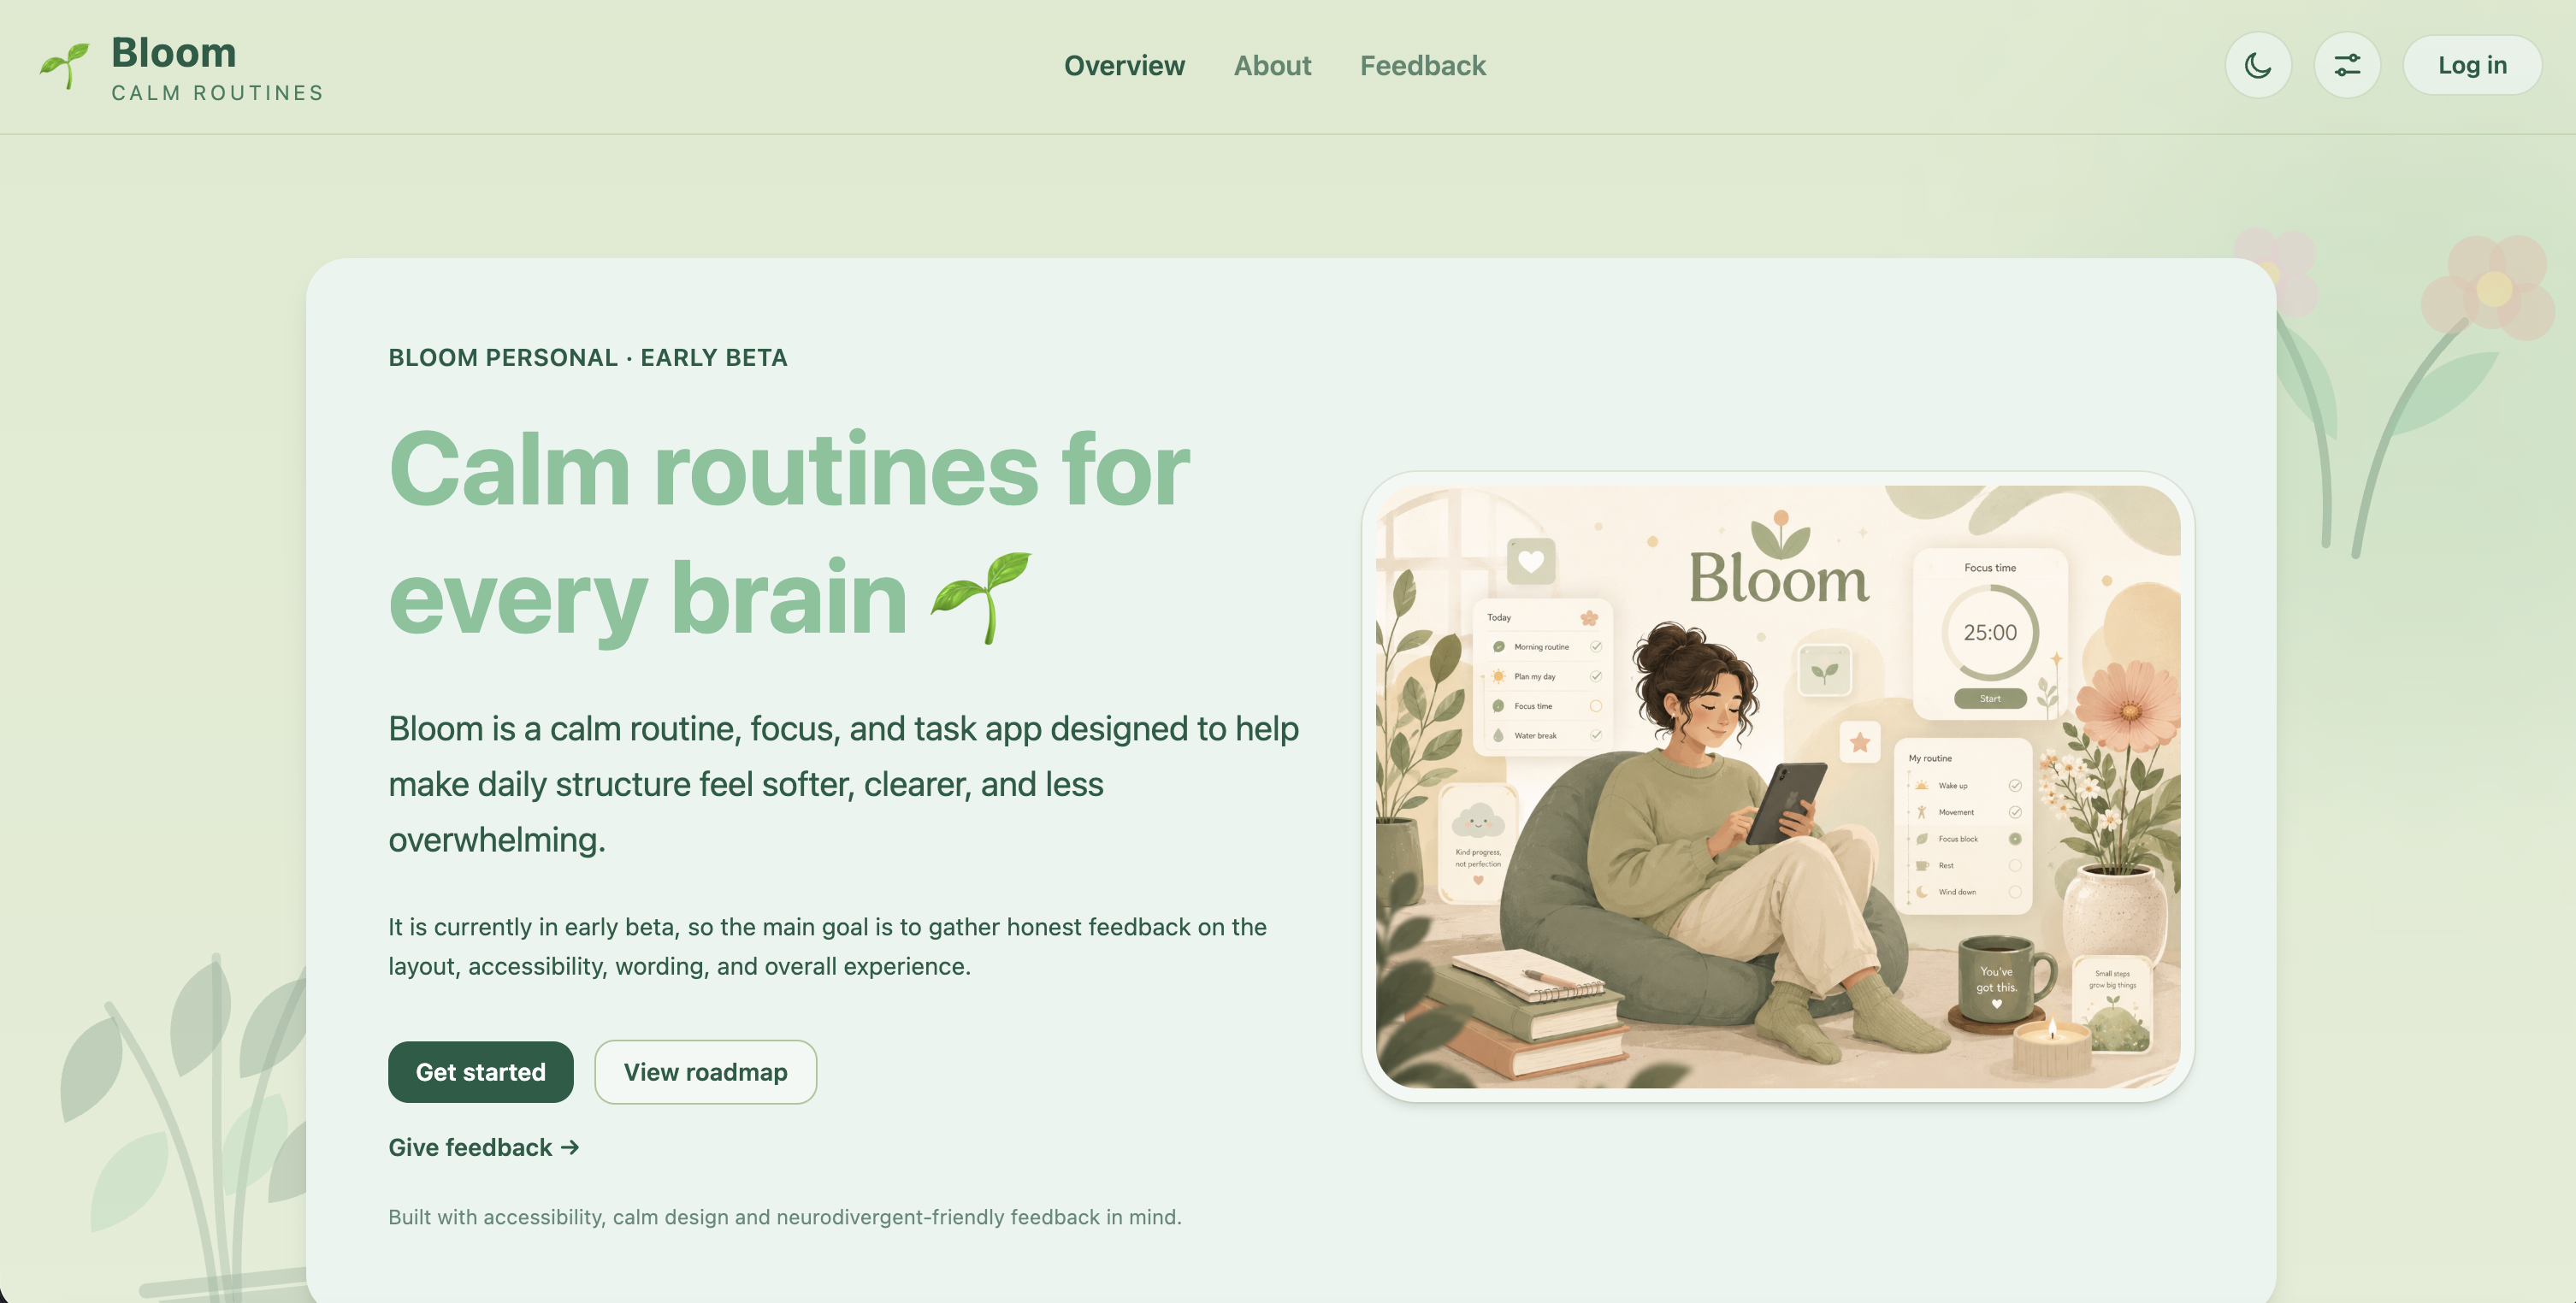
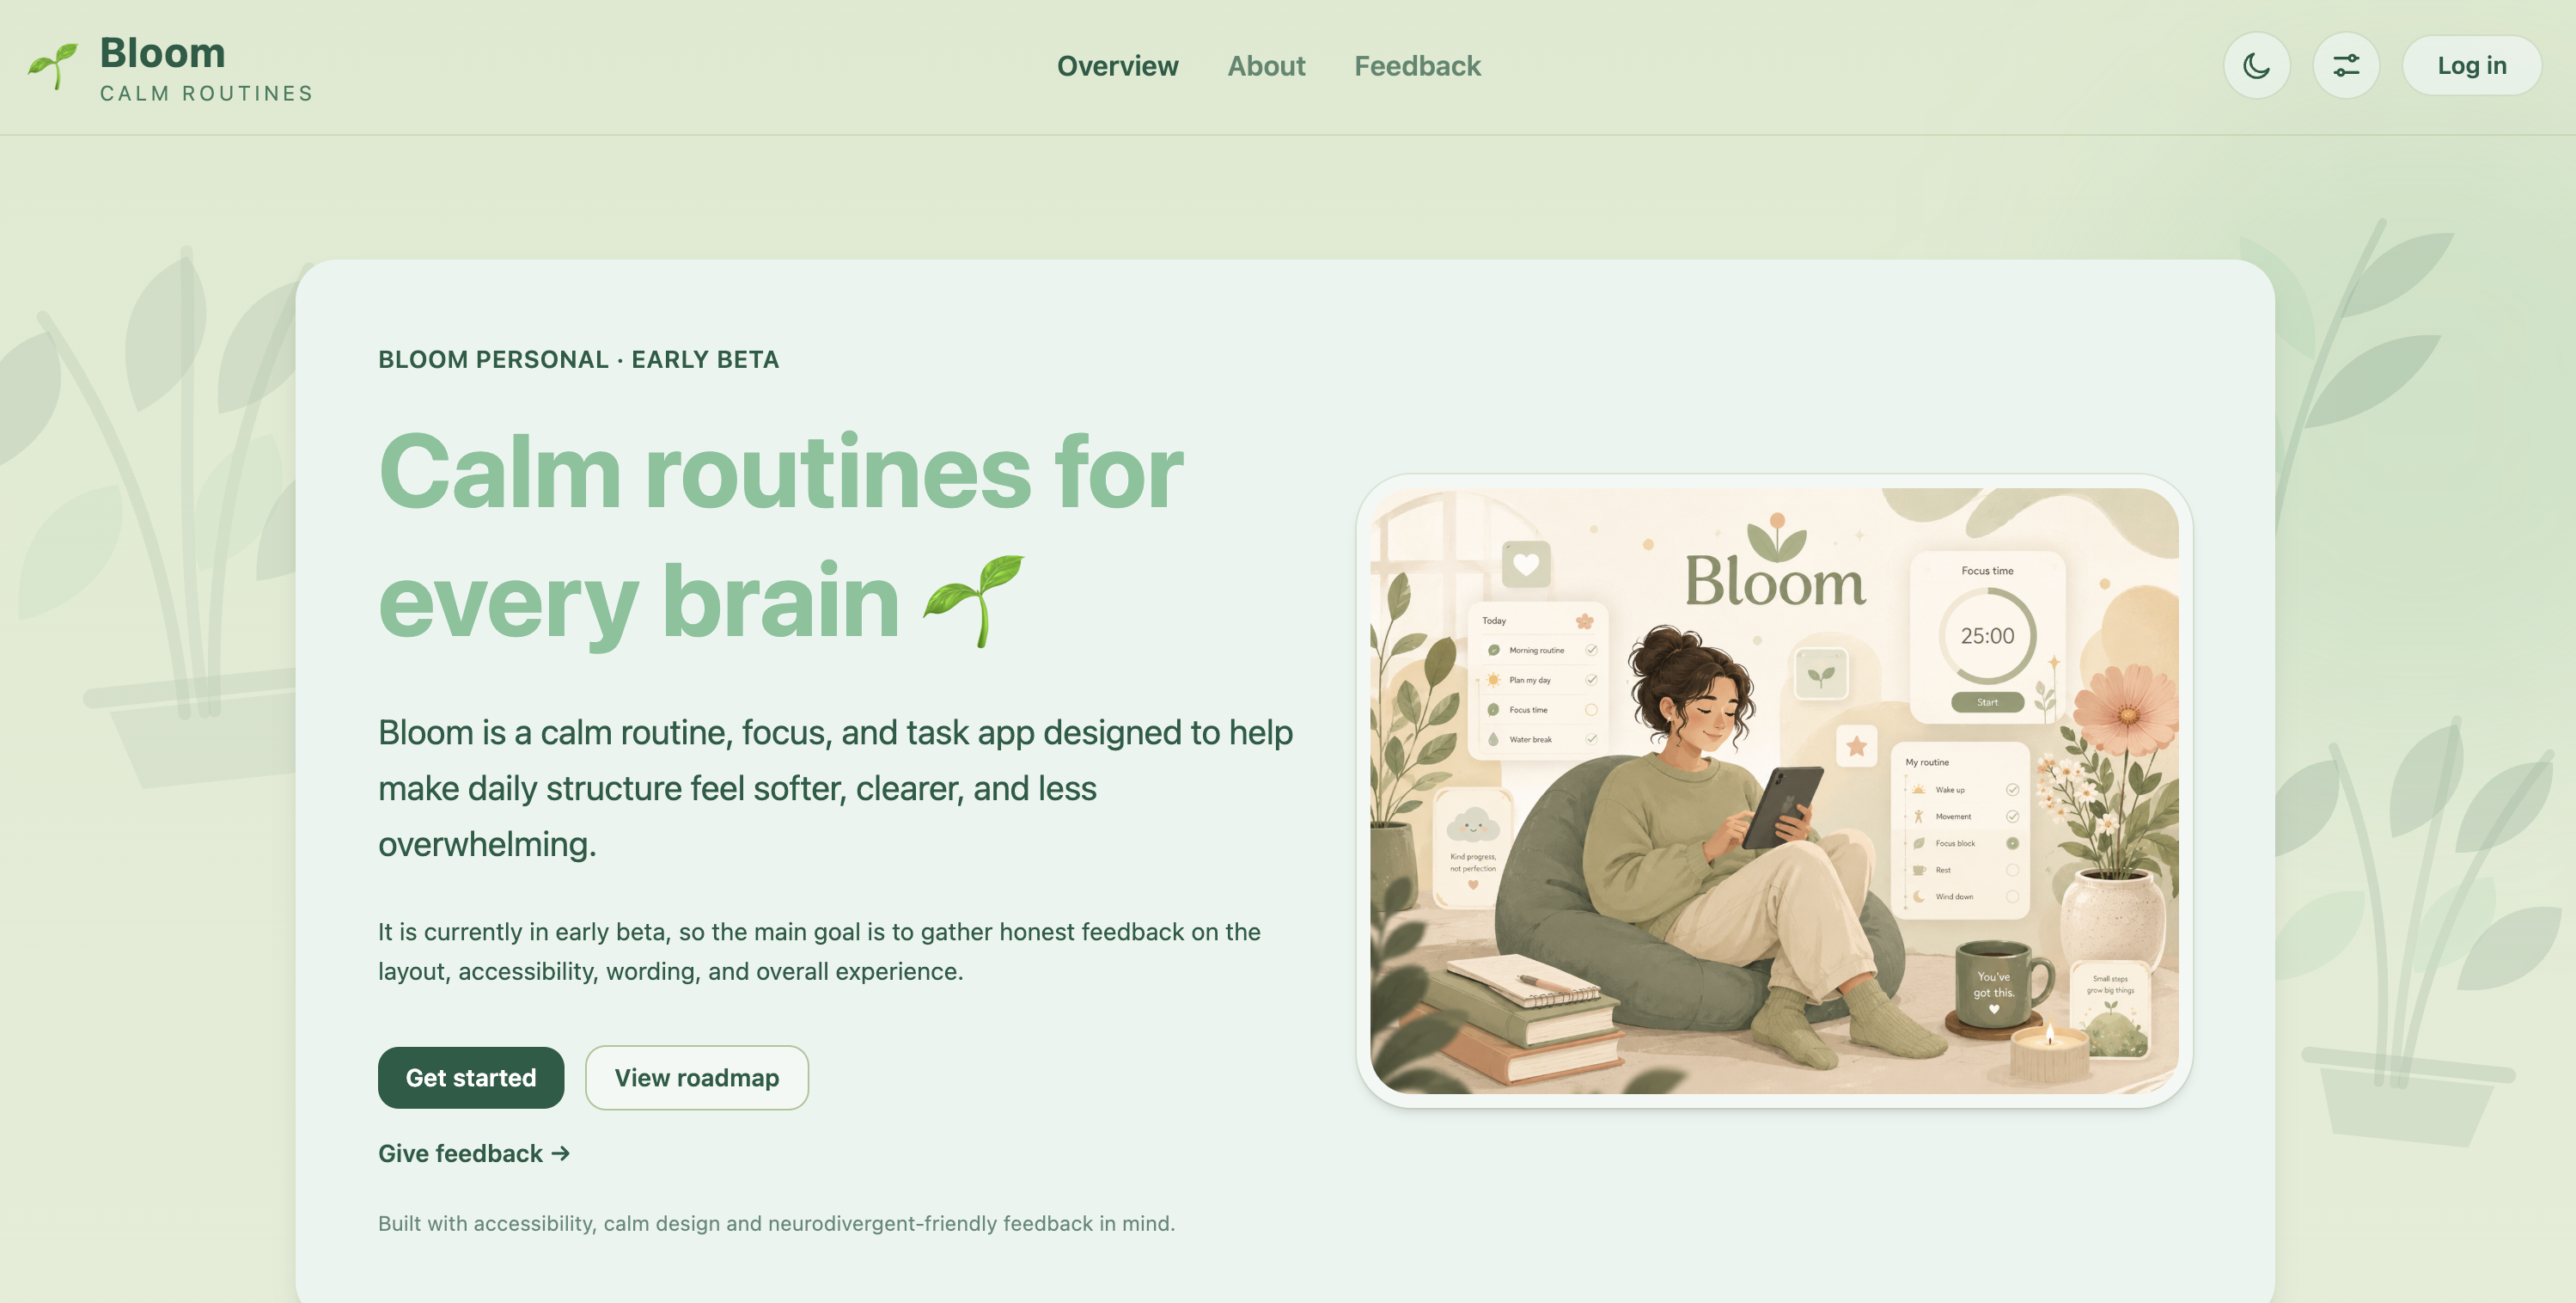
feat: add AI HR support assistant and Technical blog to portfolio

diff --git a/src/data/projects.js b/src/data/projects.js
@@ -2,12 +2,14 @@
 // Shared data file — import this anywhere you need project data
 
 export const projects = [
-  {
     // featured: true のプロジェクトだけホームページに表示される
     // Only projects with featured: true appear on the homepage
+
+  {
     featured: true,
     title: "Inventory Management System",
     category: "Full-Stack · Deployed",
+    status: "Deployed full-stack MVP",
     description:
       "Deployed full-stack inventory dashboard with React, TypeScript, FastAPI, PostgreSQL, JWT login, protected routes, CRUD operations, Docker support, Vercel frontend deployment, Render backend deployment, and GitHub Actions CI checks.",
     tech: [
@@ -31,6 +33,7 @@ export const projects = [
     featured: true,
     title: "Bloom - Calm Routine, Focus & Progress App",
     category: "Capstone · Accessibility",
+    status: "Public beta / frontend MVP",
     description:
       "A calm, accessible routine and task sequencing app focused on neurodivergent-friendly routines, focus support, public beta feedback, accessibility page controls, visual identity polish, and future full-stack persistence.",
     tech: [
@@ -46,10 +49,13 @@ export const projects = [
     image: "/screenshots/bloom-overview.png",
     images: [
       "/screenshots/bloom-overview.png",
-      "/screenshots/bloom-login-modal.png",
       "/screenshots/bloom-page-controls.png",
+      "/screenshots/bloom-login-modal.png",
+      "/screenshots/bloom-demo-modal.png",
+      "/screenshots/bloom-demo-home.png",
       "/screenshots/bloom-routines.png",
       "/screenshots/bloom-focus.png",
+      "/screenshots/bloom-exit-demo.png",
     ],
   },
 
@@ -57,6 +63,7 @@ export const projects = [
     featured: true,
     title: "Mini User API",
     category: "Backend · API",
+    status: "Deployed backend MVP",
     description:
       "Deployed FastAPI backend API with PostgreSQL, SQLAlchemy, JWT authentication, role-based access control, Docker support, Swagger API documentation, Render deployment, and GitHub Actions CI checks. This API powers the JWT Authentication Dashboard frontend.",
     tech: [
@@ -79,6 +86,7 @@ export const projects = [
     featured: false,
     title: "JWT Authentication Dashboard",
     category: "Full-Stack · Auth",
+    status: "Deployed frontend integration",
     description:
       "Deployed React and TypeScript authentication dashboard connected to a FastAPI backend. Includes JWT login, token storage, protected dashboard access, admin-only user listing, role-based UI rendering, Vercel deployment, Render backend integration, and GitHub Actions CI checks.",
     tech: [
@@ -98,8 +106,30 @@ export const projects = [
 
   {
     featured: false,
+    title: "AI HR Support Assistant",
+    category: "Full-Stack · AI Workflow",
+    status: "Portfolio-ready MVP",
+    description:
+      "Built a full-stack AI-assisted HR support dashboard using React, TypeScript, FastAPI, PostgreSQL, SQLAlchemy, Alembic, and Docker Compose. The app allows employees to submit HR tickets, uses mock AI logic to classify category and priority, provides suggested response drafts for HR review, and includes HR/Admin dashboards with filtering, sorting, responsive ticket queues, and status update workflows.",
+    tech: [
+      "React",
+      "TypeScript",
+      "FastAPI",
+      "PostgreSQL",
+      "SQLAlchemy",
+      "Alembic",
+      "Docker Compose",
+    ],
+    github: "https://github.com/Iris408/ai-hr-support-assistant",
+    demo: "",
+    image: "/screenshots/ai-hr-support-assistant.png",
+  },
+
+  {
+    featured: false,
     title: "System Health Monitor",
     category: "DevOps · Monitoring",
+    status: "Completed beginner DevOps project",
     description:
       "Python-based system monitoring tool that tracks CPU, memory, disk usage, and uptime with threshold alerts, structured logging, Slack/email notifications, Docker support, a FastAPI dashboard, a /health JSON endpoint, and GitHub Actions CI checks.",
     tech: [
@@ -116,6 +146,30 @@ export const projects = [
     github: "https://github.com/Iris408/system-health-monitor",
     demo: "",
     image: "/screenshots/system-health-monitor.png",
+  },
+
+  {
+    featured: false,
+    title: "Technical Blog / Engineer Notebook",
+    category: "Frontend · Technical Writing",
+    status: "One-page MVP",
+    description:
+      "A minimalist one-page technical blog built to document engineering notes, debugging lessons, project progress, and technical Japanese practice. The page uses a Japanese-first structure with English support, helping me practise clear technical explanations while maintaining a simple developer portfolio-style layout.",
+    tech: [
+      "HTML",
+      "CSS",
+      "JavaScript",
+      "Responsive Design",
+      "Technical Writing",
+      "Technical Japanese",
+    ],
+    github: "https://github.com/Iris408/technical-blog",
+    demo: "https://iris408.github.io/technical-blog/",
+    image: "/screenshots/technical-blog-jp.png",
+    images: [
+      "/screenshots/technical-blog-en.png",
+      "/screenshots/technical-blog-field-notes.png",
+    ],
   },
 
   // featured: false にするとホームには出ず /projects のみに表示される